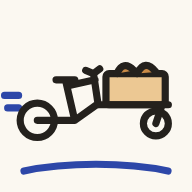
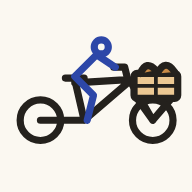
Lastenrad mit Fahrerin und Korb vorne
Die Long-John-Zeichnung war klein nicht eindeutig: der Lenker über dem
Hinterrad las sich als vorne. Jetzt mit Fahrerin, zwei gleich großen
Rädern und dem Korb mit Gebäck vorne über dem Vorderrad.

Claude-Session: https://claude.ai/code/session_01WstQYbY7UvSe7fDibYps7G

Changed region(s): [[0.0, 0.1875, 0.9688, 0.75], [0.0938, 0.8125, 0.9062, 0.9062]]

diff --git a/src/components/Radl.tsx b/src/components/Radl.tsx
@@ -1,15 +1,23 @@
 /**
- * Lastenrad (Long John) als Tuschezeichnung, fährt nach rechts:
- * Hinterrad – Sattel – Lenker – Korb mit Gebäck – kleines Vorderrad.
+ * Lastenrad als Tuschezeichnung, fährt nach rechts:
+ * Fahrerin am Sattel, Lenker, davor der Korb mit Gebäck über dem Vorderrad.
  */
 const RADL_PFADE = (
   <>
-    <path className="fahrtstriche" d="M1 40h9M3 48h7" stroke="var(--kuli)" />
-    <rect x="66" y="26" width="38" height="20" rx="2" fill="var(--kruste-hell)" />
-    <path d="M73 26q4-9 11-2M86 26q5-10 12-1" fill="var(--kruste)" />
-    <path d="M22 56h24l14-10h46M102 46l-4 12M46 56l-6-26M34 30h12M41 34l18-4M61 46l-3-20M53 24l5 2 4-3" />
-    <g className="rad-dreh"><circle cx="22" cy="56" r="11" /><path d="M22 45v22M11 56h22" /></g>
-    <g className="rad-dreh"><circle cx="98" cy="58" r="8" /><path d="M98 50v16M90 58h16" /></g>
+    <path className="fahrtstriche" d="M1 38h8M3 46h6" stroke="var(--kuli)" />
+    {/* Rahmen, Sattel, Lenker */}
+    <path d="M24 54h28l-6-26M46 30l34-2M52 54l28-24M81 28l15 26M40 27h12M80 28l-2-8h-7" />
+    {/* Korb vorne über dem Vorderrad */}
+    <path d="M86 40l10 14M108 40l-12 14" />
+    <rect x="84" y="24" width="28" height="16" rx="2" fill="var(--kruste-hell)" />
+    <path d="M84 29.5h28M84 35h28M91 24v16M98 24v16M105 24v16" strokeWidth="1.2" />
+    <path d="M88 24q4-9 10-2M99 24q5-10 11-1" fill="var(--kruste)" />
+    {/* Fahrerin */}
+    <path d="M46 26l14-14M60 12l12 8M46 26l12 12-4 16" stroke="var(--kuli)" />
+    <circle cx="63" cy="7" r="4.5" stroke="var(--kuli)" />
+    {/* Räder */}
+    <g className="rad-dreh"><circle cx="24" cy="54" r="13" /><path d="M24 41v26M11 54h26" /></g>
+    <g className="rad-dreh"><circle cx="96" cy="54" r="13" /><path d="M96 41v26M83 54h26" /></g>
   </>
 )
 

diff --git a/src/styles.css b/src/styles.css
@@ -64,7 +64,7 @@ a { color: inherit; }
 
 .kopf-zeile { display: flex; justify-content: space-between; align-items: flex-start; gap: 16px; border-bottom: 1.5px solid var(--tusche); padding-bottom: 14px; margin-bottom: 26px; }
 .marke { display: flex; align-items: center; gap: 10px; font-style: italic; font-weight: 600; font-size: 1.35rem; }
-.marke-radl { width: 62px; }
+.marke-radl { width: 78px; }
 .ausgabe { text-align: right; line-height: 1.1; }
 .ausgabe span { display: block; font-size: .72rem; text-transform: uppercase; letter-spacing: .14em; color: var(--grau); }
 .ausgabe strong { font-size: 1.6rem; font-weight: 600; font-variant-numeric: oldstyle-nums; }
@@ -242,7 +242,7 @@ a { color: inherit; }
   .klebestreifen.links { left: 18px; }
   .klebestreifen.rechts { right: 18px; }
   .marke { font-size: 1.1rem; }
-  .marke-radl { width: 48px; }
+  .marke-radl { width: 62px; }
   .zeile { grid-template-columns: 56px 1fr auto; gap: 10px; padding: 10px 0; }
   .zeile-bild { width: 56px; height: 40px; }
   .zeile-name { font-size: 1.02rem; }
